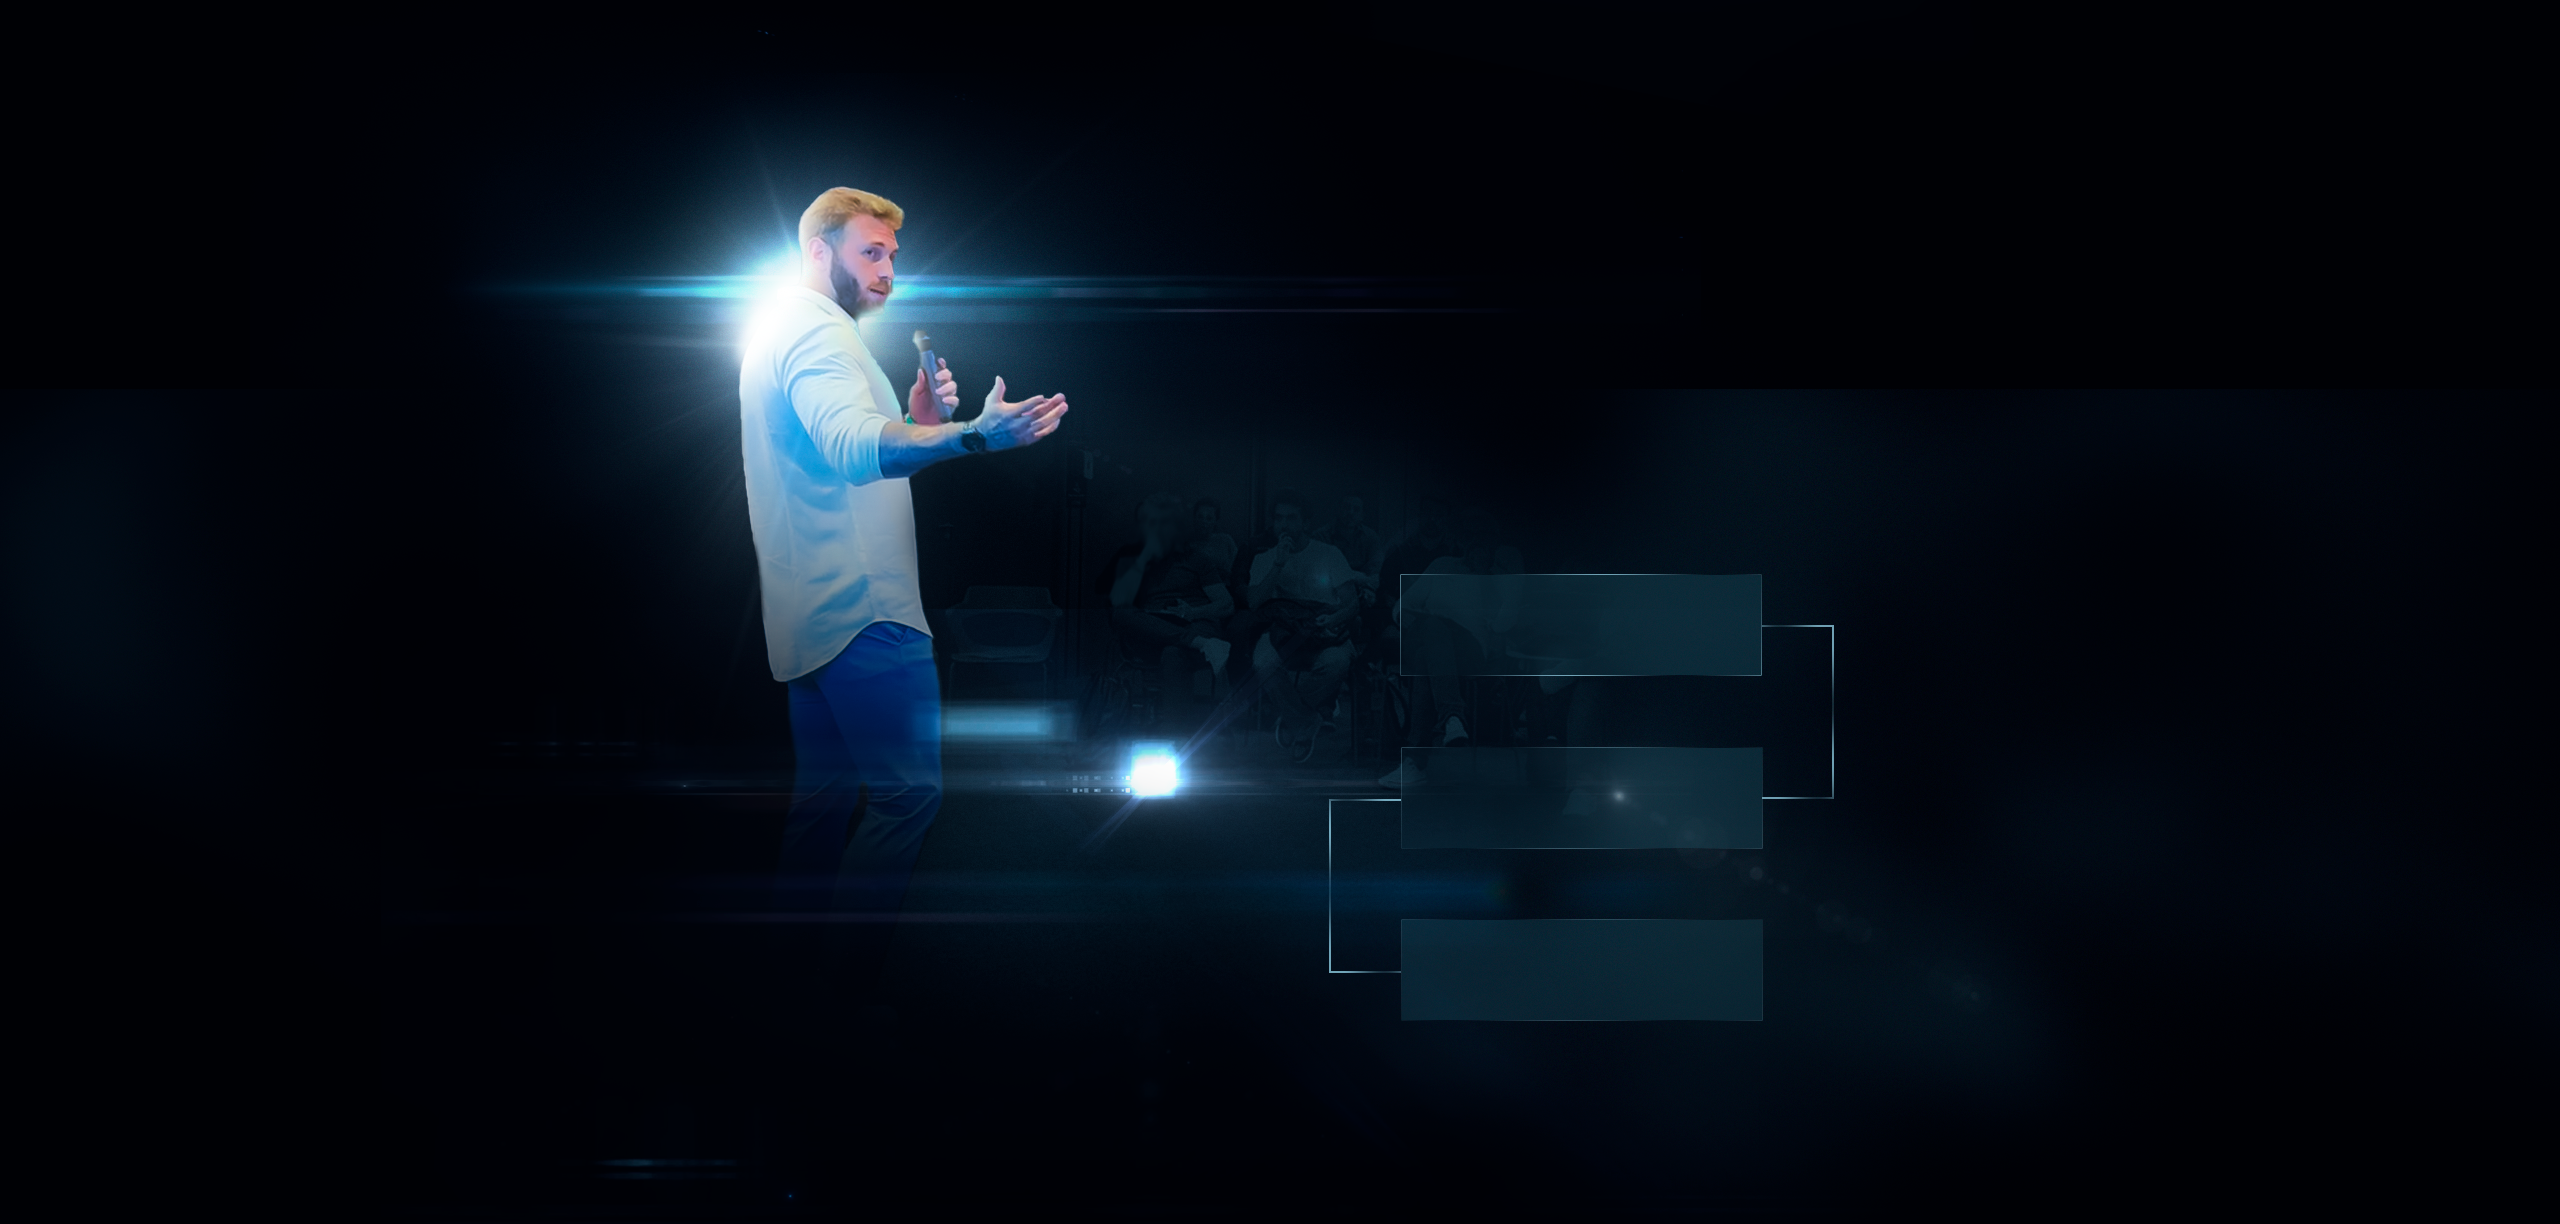
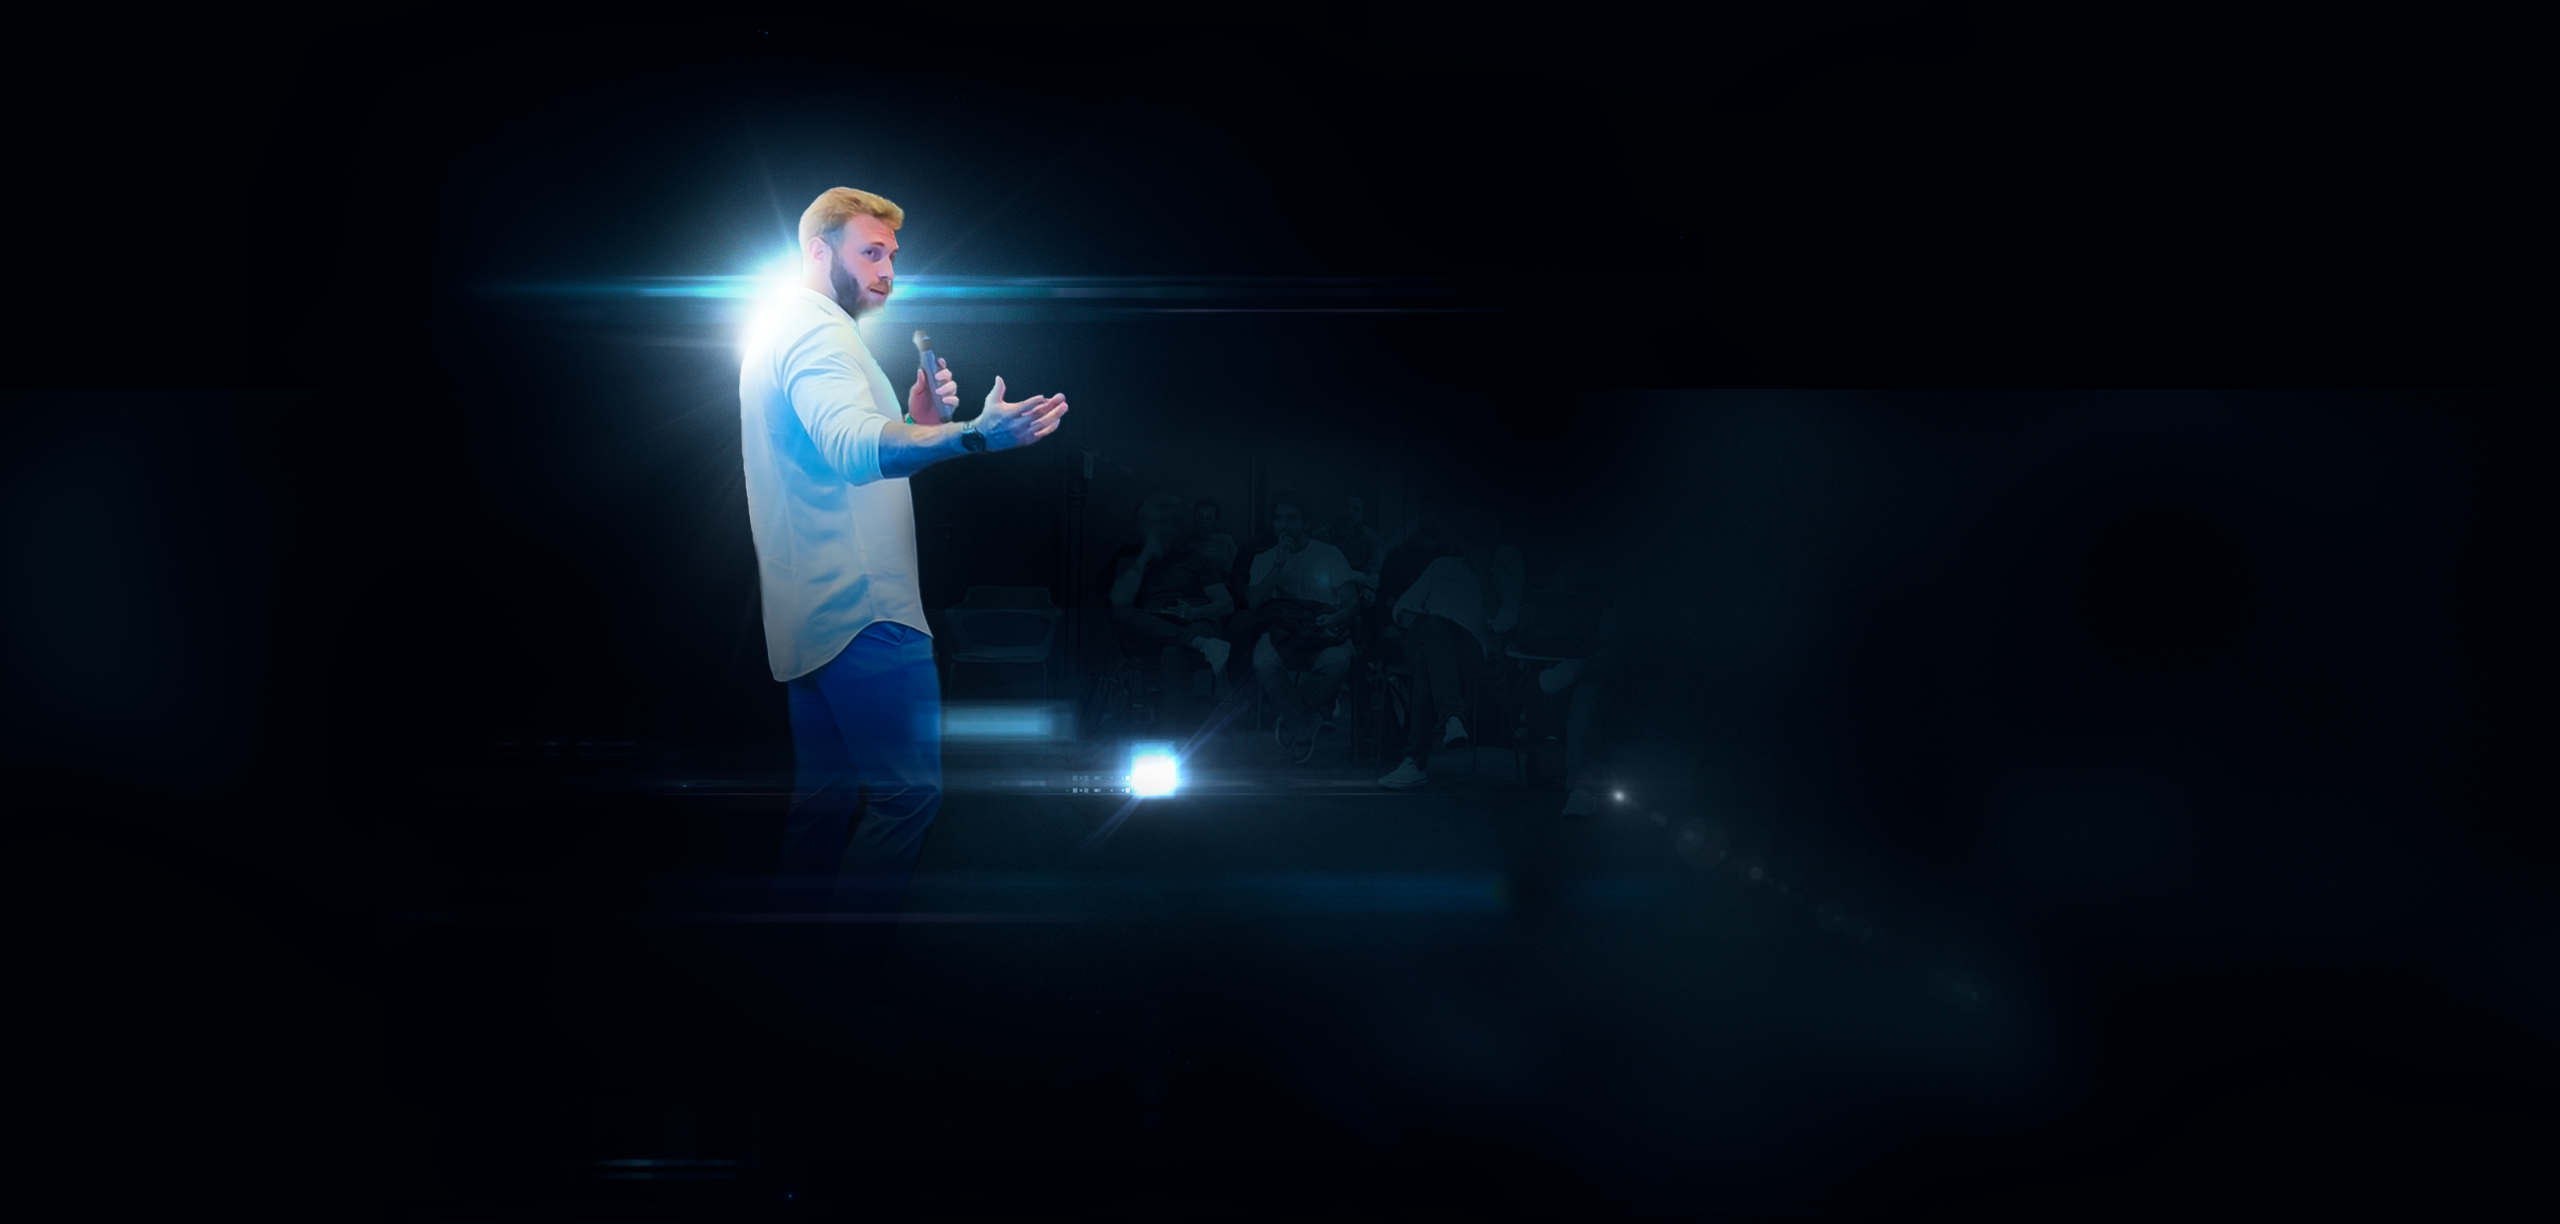
refactor: in practice view

Changed region(s): [[0.5312, 0.7451, 0.6562, 0.8382], [0.625, 0.4657, 0.6875, 0.5588], [0.6562, 0.5899, 0.6875, 0.7141]]

diff --git a/app/assets/stylesheets/custom.css b/app/assets/stylesheets/custom.css
@@ -134,6 +134,14 @@ body {
 
 /* IN_PRACTICE */
 
+#in-practice-square-bg {
+    background: url(../assets/in_practice/in_practice_background.png);
+    background-size: cover;
+    background-repeat: no-repeat;
+    background-position: center;
+}
+
+
 #in-practice-bg {
     background: url(../assets/in_practice/background03.png);
     background-size: cover;
